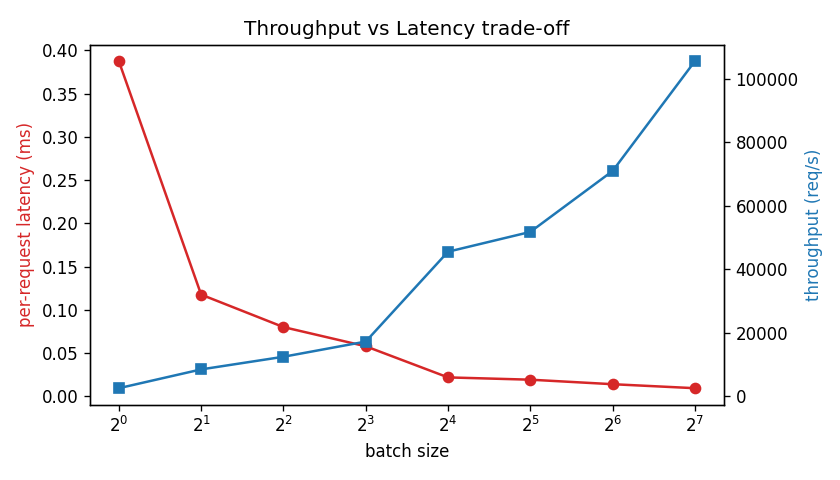
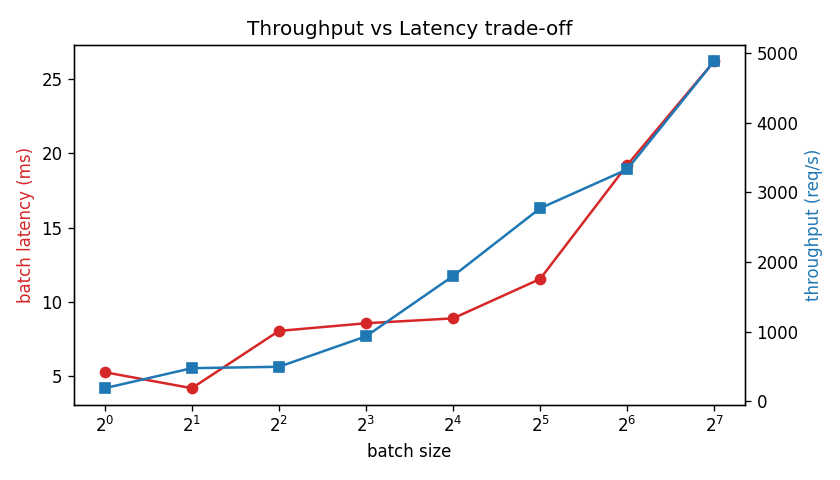
Migrate to uv for dependency management; fix benchmark latency metric

diff --git a/02_inference_principles/benchmark_throughput_vs_latency.py b/02_inference_principles/benchmark_throughput_vs_latency.py
@@ -16,9 +16,13 @@ import torch.nn as nn
 
 
 class TinyBlock(nn.Module):
-    """模拟一层推理计算的小模型（线性 + 注意力近似）。"""
+    """模拟一层推理计算的小模型（线性 + 注意力近似）。
 
-    def __init__(self, dim=512, depth=4):
+    dim/depth 取得足够大，使大 batch 能进入 compute-bound 区间，
+    从而复现经典的"per-request latency 先降后升"U 形曲线。
+    """
+
+    def __init__(self, dim=2048, depth=8):
         super().__init__()
         self.layers = nn.Sequential(
             *[nn.Sequential(nn.Linear(dim, dim), nn.GELU()) for _ in range(depth)]
@@ -29,7 +33,7 @@ class TinyBlock(nn.Module):
         return self.layers(x)
 
 
-def benchmark(model, batch_sizes, dim=512, repeats=20, warmup=3):
+def benchmark(model, batch_sizes, dim=2048, repeats=10, warmup=2):
     results = []
     for bs in batch_sizes:
         x = torch.randn(bs, dim)
@@ -42,10 +46,11 @@ def benchmark(model, batch_sizes, dim=512, repeats=20, warmup=3):
             model(x)
         elapsed = time.perf_counter() - t0
 
-        per_batch = elapsed / repeats          # 一个 batch 的耗时
-        per_request = per_batch / bs           # 单请求延迟
+        per_batch = elapsed / repeats          # 一个 batch 的墙钟耗时
+        # 一个请求实际要等"整个 batch 跑完"，所以它感受到的延迟 = 整批耗时
+        batch_latency_ms = per_batch * 1000
         throughput = (bs * repeats) / elapsed  # req/s
-        results.append((bs, per_request * 1000, throughput))
+        results.append((bs, batch_latency_ms, throughput))
     return results
 
 
@@ -57,13 +62,13 @@ def main():
     batch_sizes = [1, 2, 4, 8, 16, 32, 64, 128]
     results = benchmark(model, batch_sizes)
 
-    print(f"{'batch':>6} | {'per-req latency (ms)':>22} | {'throughput (req/s)':>20}")
-    print("-" * 56)
+    print(f"{'batch':>6} | {'batch latency (ms)':>20} | {'throughput (req/s)':>20}")
+    print("-" * 54)
     for bs, lat_ms, thr in results:
-        print(f"{bs:>6} | {lat_ms:>22.3f} | {thr:>20.1f}")
+        print(f"{bs:>6} | {lat_ms:>20.3f} | {thr:>20.1f}")
 
-    # 找甜点：吞吐增益明显放缓的拐点
-    print("\n观察：随 batch 增大，throughput 上升但 per-request latency 也上升。")
+    print("\n观察：随 batch 增大，throughput 上升，但一个请求要等整批跑完，")
+    print("它感受到的延迟 (batch latency) 也随之上升。")
     print("甜点 = 在可接受延迟内吞吐最高的那个 batch size。")
 
     # 可选画图
@@ -75,7 +80,7 @@ def main():
         thrs = [r[2] for r in results]
         fig, ax1 = plt.subplots(figsize=(7, 4))
         ax1.set_xlabel("batch size")
-        ax1.set_ylabel("per-request latency (ms)", color="tab:red")
+        ax1.set_ylabel("batch latency (ms)", color="tab:red")
         ax1.plot(bss, lats, "o-", color="tab:red", label="latency")
         ax1.set_xscale("log", base=2)
         ax2 = ax1.twinx()

diff --git a/README.md b/README.md
@@ -15,22 +15,22 @@
 
 ## 快速开始
 
+本项目使用 [uv](https://docs.astral.sh/uv/) 管理环境与依赖。
+
 ```pwsh
-# 1. 创建虚拟环境
-python -m venv .venv
-.\.venv\Scripts\Activate.ps1
+# 1. 安装依赖（已生成 pyproject.toml / uv.lock，CPU 即可跑 M1+M2）
+uv sync
 
-# 2. 安装基础依赖（M1 + M2 在 CPU 即可跑）
-pip install -r requirements.txt
-
-# 3. 按顺序动手
-python 01_handwritten_nn\01_linear_y_wx_b.py
-python 01_handwritten_nn\02_mlp_numpy.py
-python 01_handwritten_nn\03_mlp_pytorch.py
-python 02_inference_principles\benchmark_throughput_vs_latency.py
-python 03_inference_engines\baseline_transformers.py
+# 2. 按顺序动手（uv run 自动激活环境）
+uv run 01_handwritten_nn\01_linear_y_wx_b.py
+uv run 01_handwritten_nn\02_mlp_numpy.py
+uv run 01_handwritten_nn\03_mlp_pytorch.py
+uv run 02_inference_principles\benchmark_throughput_vs_latency.py
+uv run 03_inference_engines\baseline_transformers.py
 # vLLM 需 Linux/WSL + GPU，见 03_inference_engines/README.md
 ```
+
+> 新增依赖用 `uv add <包名>`；vLLM 仅在 Linux/WSL+GPU 环境单独 `uv add vllm`。
 
 ## 周末冲刺
 

diff --git a/01_handwritten_nn/README.md b/01_handwritten_nn/README.md
@@ -13,9 +13,9 @@
 ## 运行
 
 ```pwsh
-python 01_linear_y_wx_b.py     # 看到 "gradient check passed" 即正确
-python 02_mlp_numpy.py         # 看到 loss 持续下降
-python 03_mlp_pytorch.py       # 看到 accuracy 上升
+uv run 01_handwritten_nn\01_linear_y_wx_b.py   # 看到 "gradient check passed" 即正确
+uv run 01_handwritten_nn\02_mlp_numpy.py       # 看到 loss 持续下降
+uv run 01_handwritten_nn\03_mlp_pytorch.py     # 看到 accuracy 上升
 ```
 
 ## Definition of Done

diff --git a/02_inference_principles/README.md b/02_inference_principles/README.md
@@ -12,7 +12,7 @@
 ## 运行
 
 ```pwsh
-python benchmark_throughput_vs_latency.py   # 打印权衡表，并生成 tradeoff.png
+uv run 02_inference_principles\benchmark_throughput_vs_latency.py   # 打印权衡表，并生成 tradeoff.png
 ```
 
 ## Definition of Done